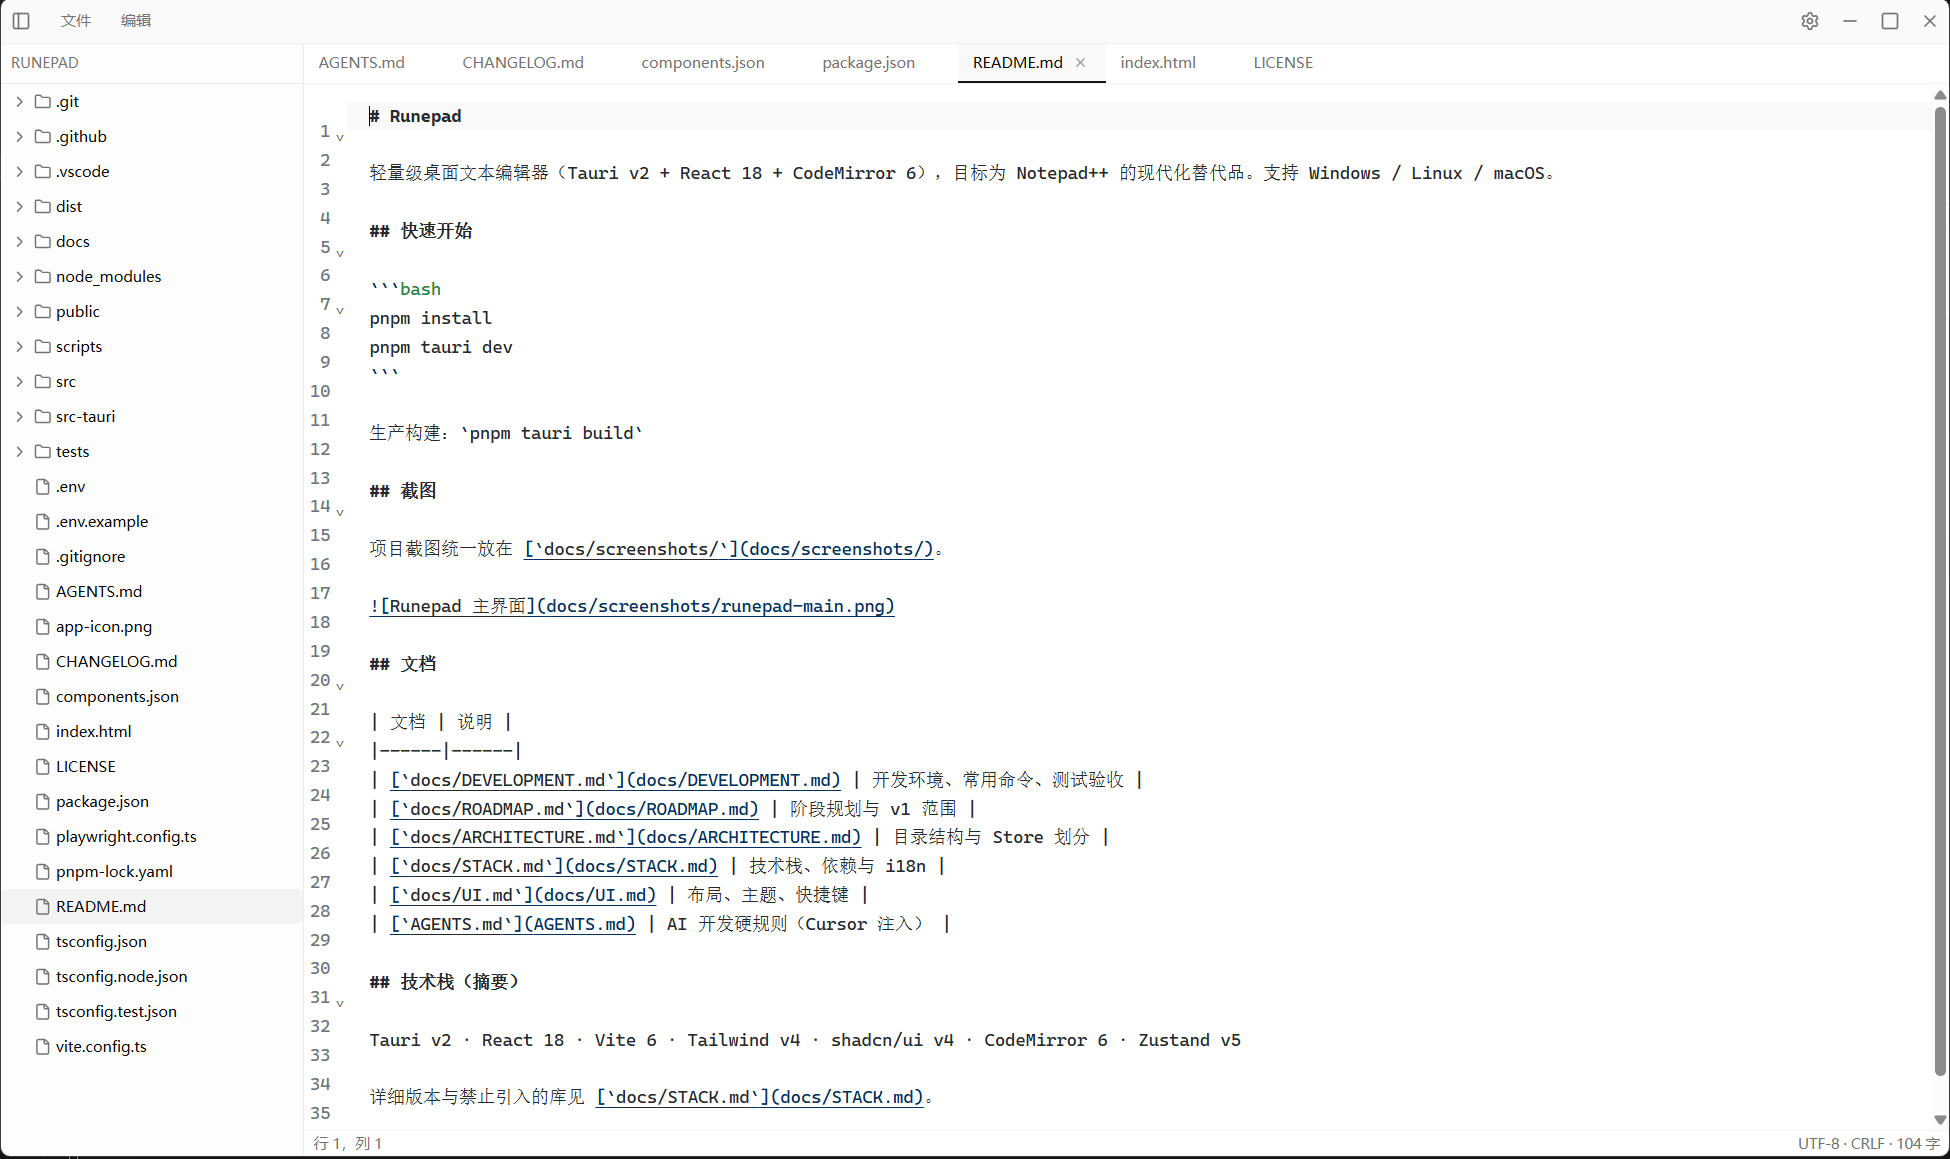
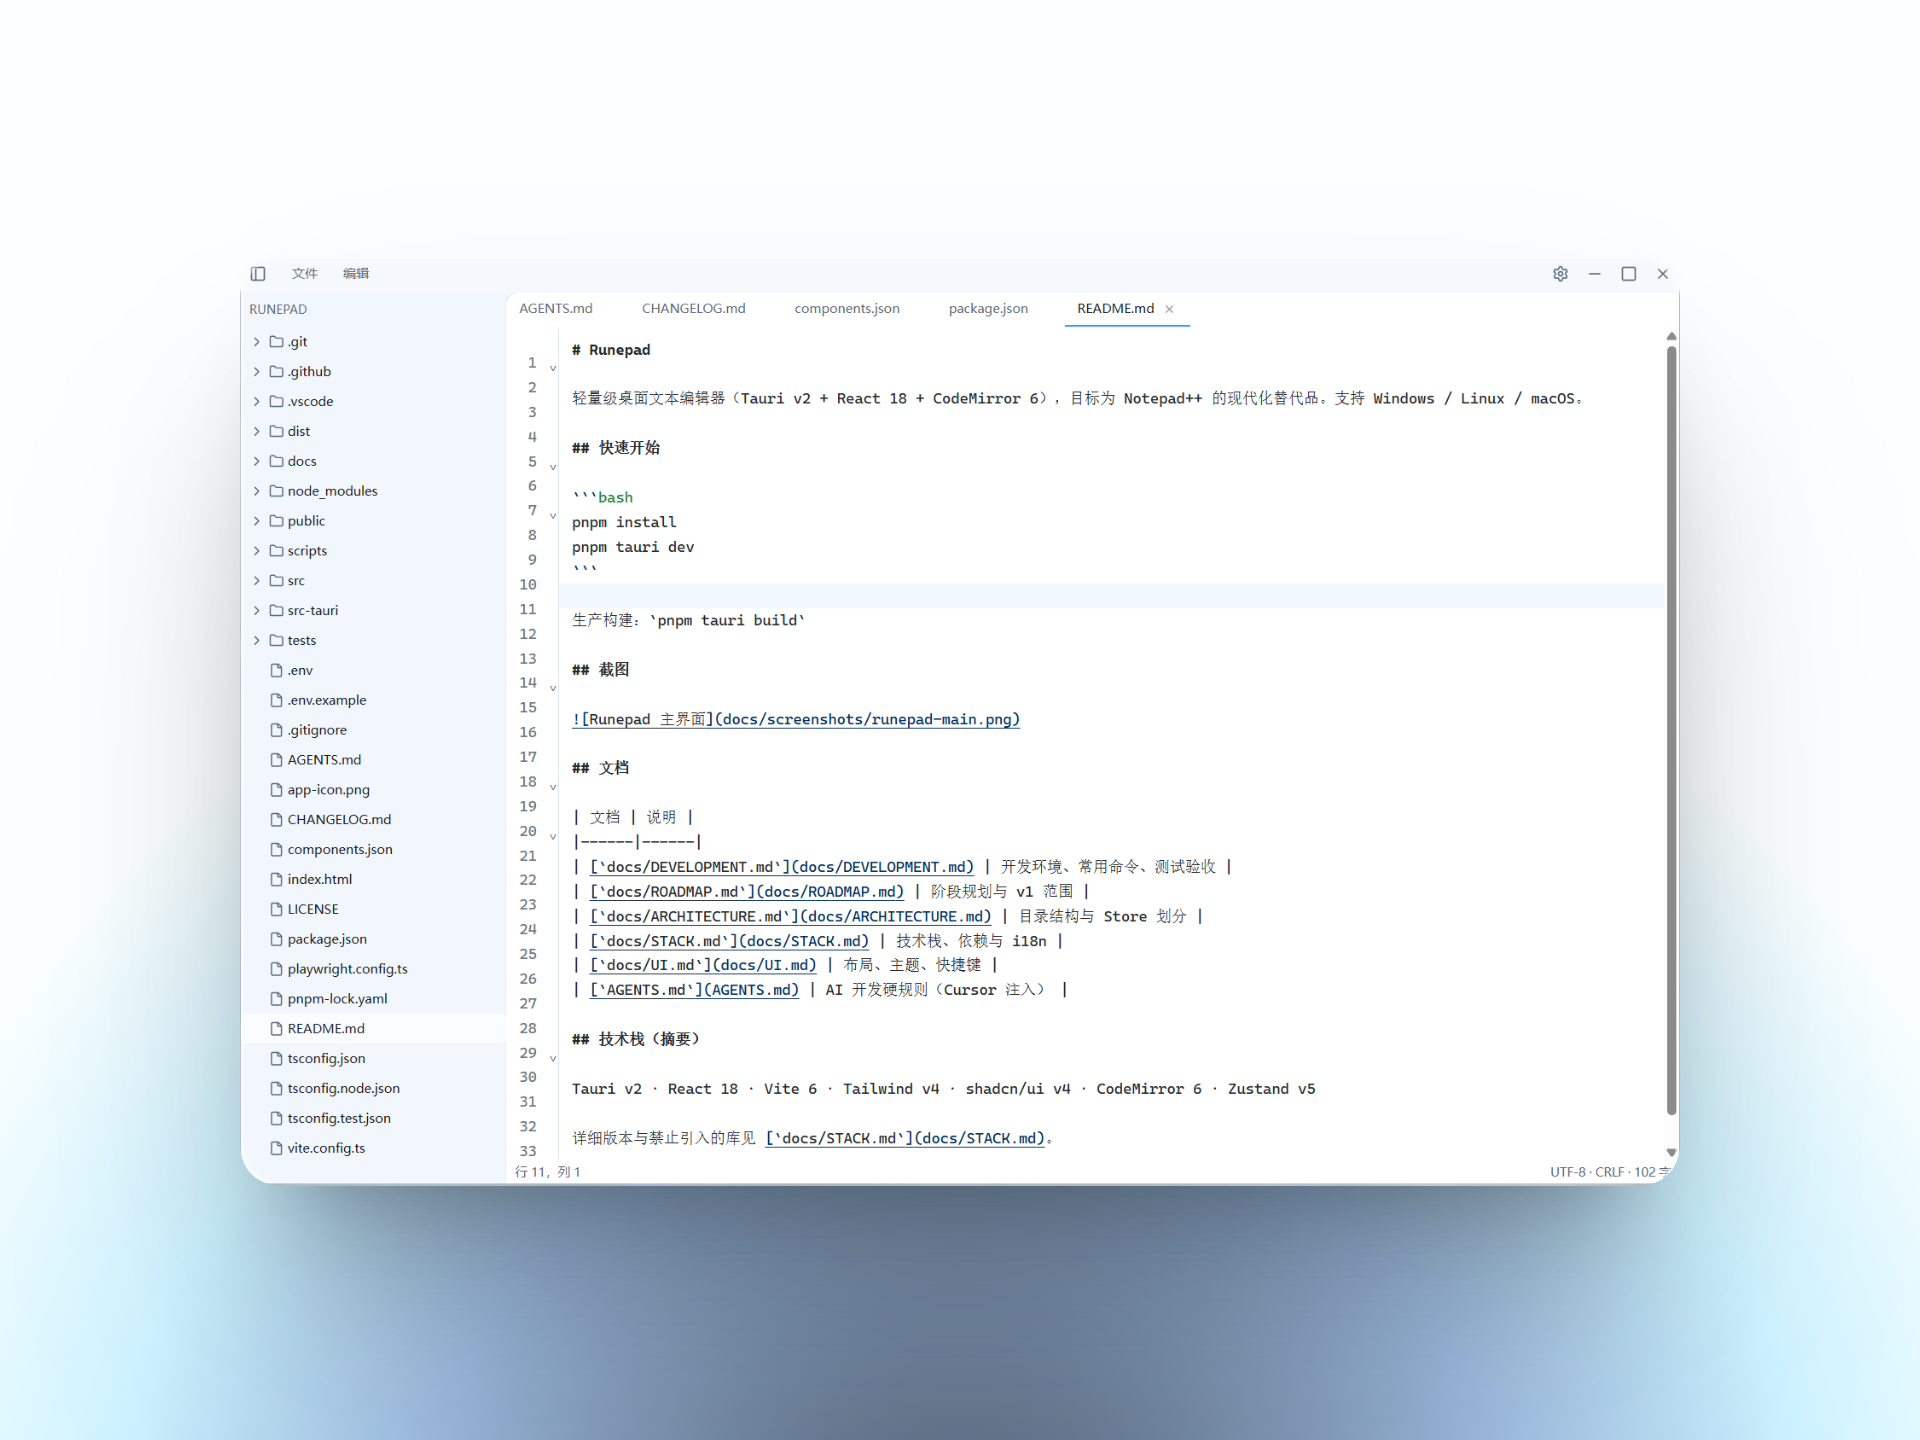
chore: release 0.6.3

diff --git a/src/components/layout/AppHeader.tsx b/src/components/layout/AppHeader.tsx
@@ -4,7 +4,7 @@ import {
   PanelLeft,
   Settings,
   Square,
-  SquareStack,
+  Copy,
   X,
 } from "lucide-react";
 import { useCallback, useEffect, useRef, useState, type ReactNode } from "react";
@@ -360,7 +360,7 @@ export function AppHeader(): JSX.Element {
               onClick={toggleMaximized}
             >
               {isMaximized ? (
-                <SquareStack className="h-3.5 w-3.5" />
+                <Copy className="h-3.5 w-3.5 scale-x-[-1]" />
               ) : (
                 <Square className="h-3.5 w-3.5" />
               )}

diff --git a/CHANGELOG.md b/CHANGELOG.md
@@ -9,6 +9,14 @@
 ## [未发布]
 
 ### 新增
+
+### 变更
+
+### 修复
+
+## [0.6.3] - 2026-06-03
+
+### 新增
 - 新增 `docs/screenshots/` 截图目录，并在 README 中预留截图展示区。
 
 ### 变更